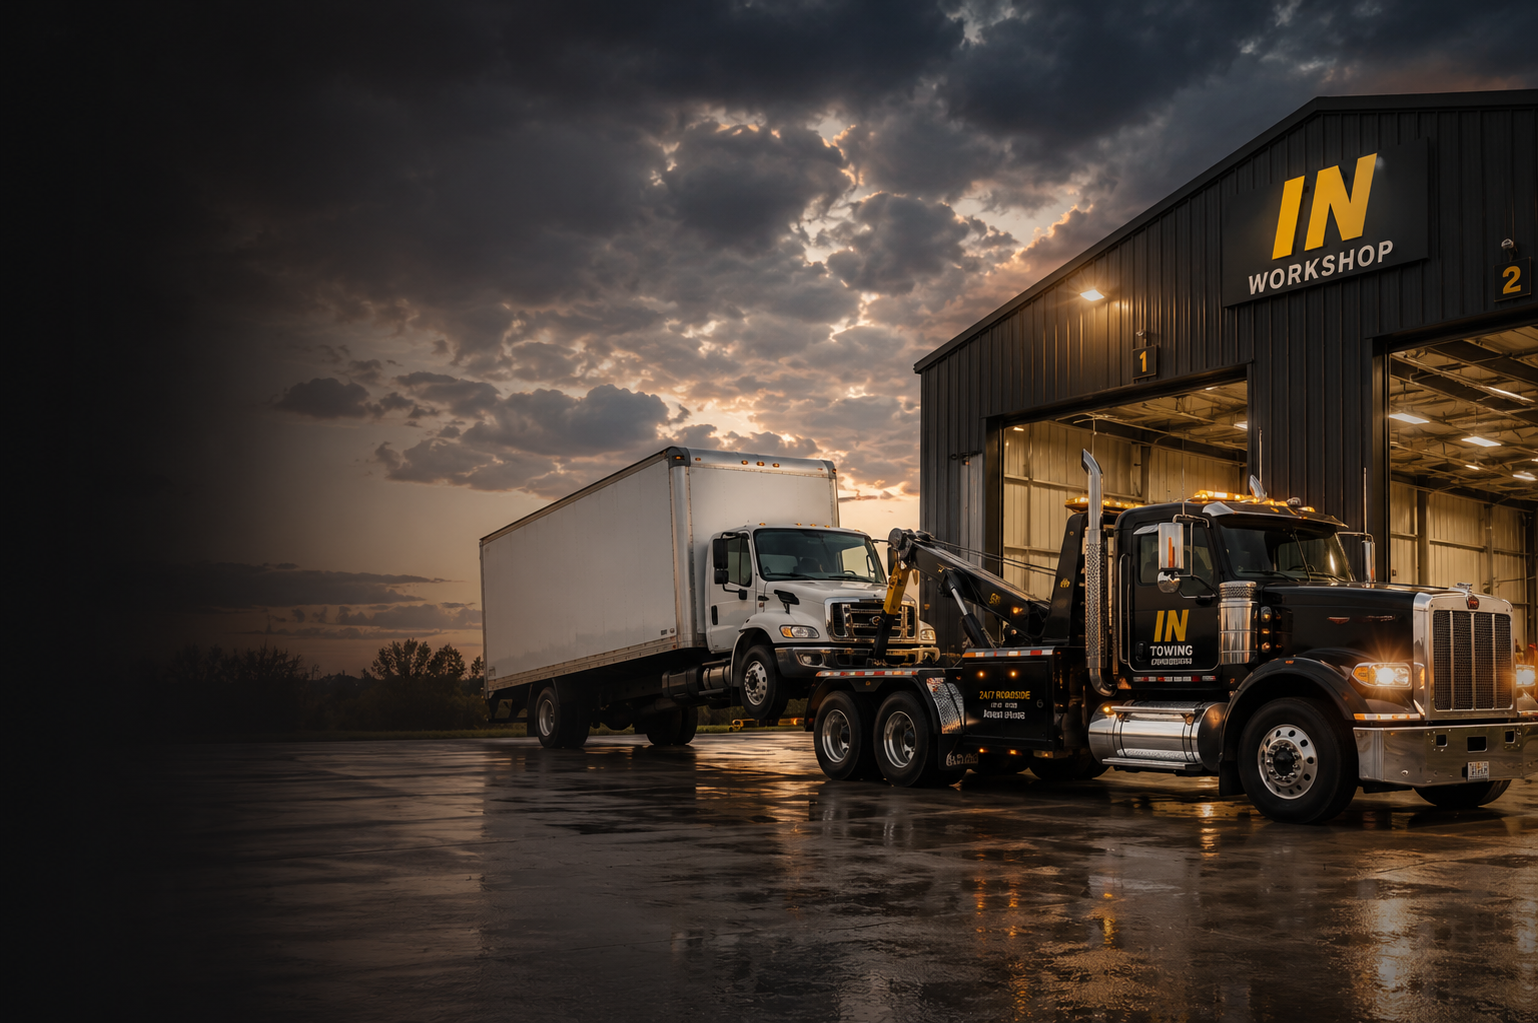
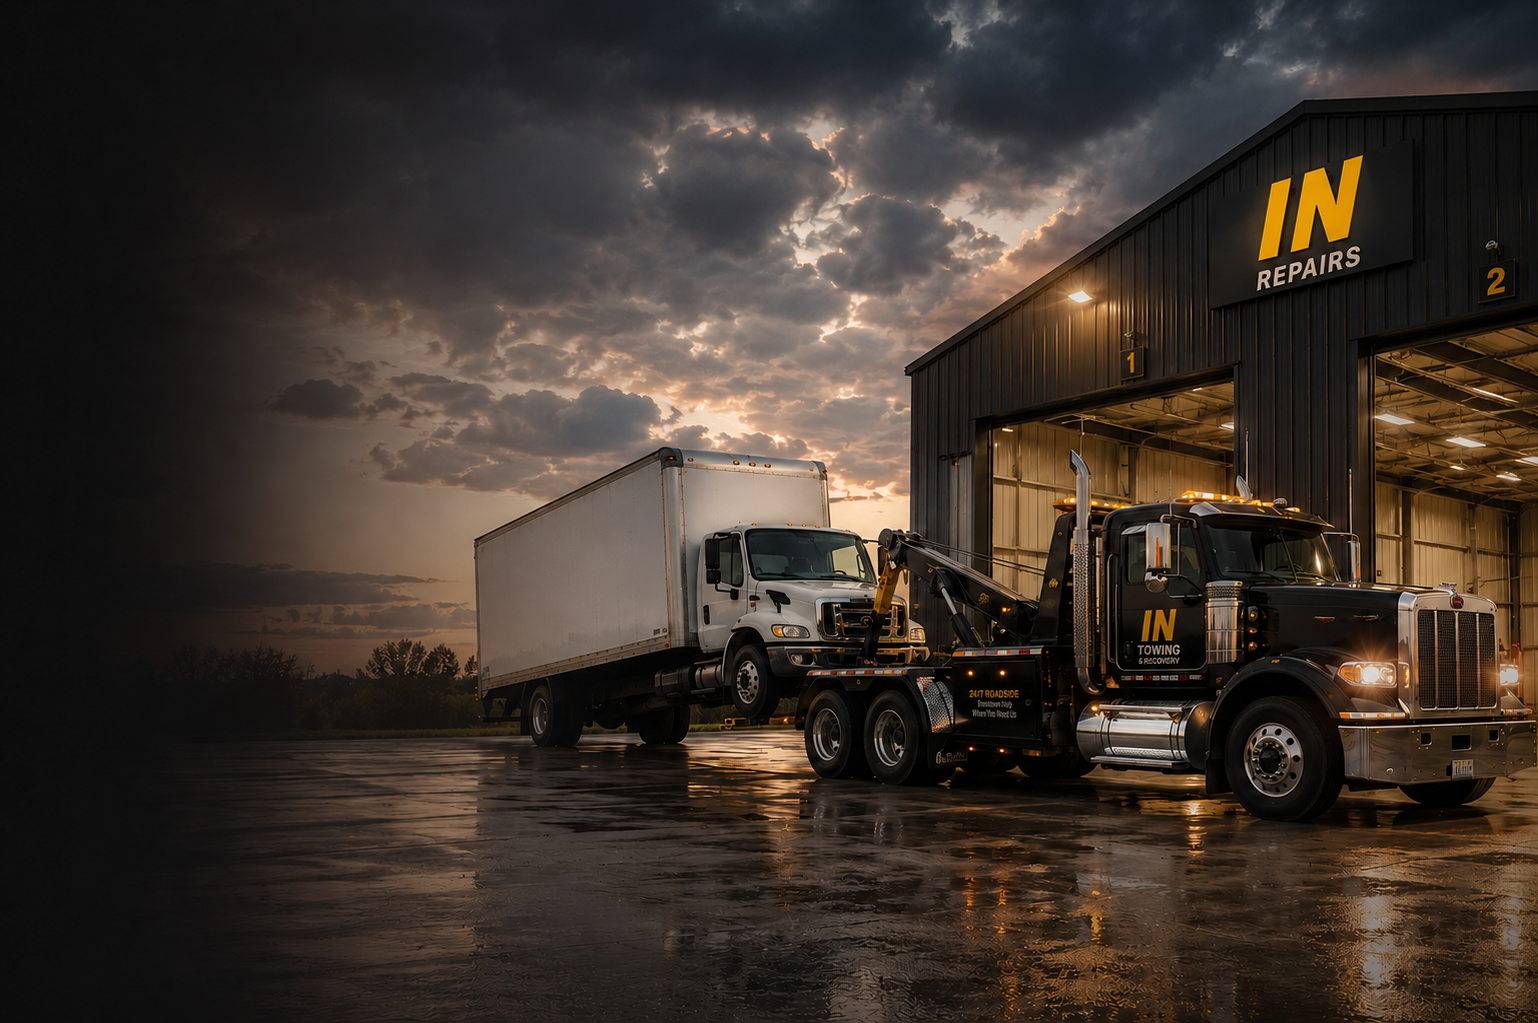
add new hero images and update UI

diff --git a/src/components/heroSection/HeroContent.tsx b/src/components/heroSection/HeroContent.tsx
@@ -11,15 +11,18 @@ type HeroContentProps = {
 
 const HeroContent = ({ isDesktop = false }: HeroContentProps) => {
   const isMobile = !isDesktop;
+  const titleLines = isDesktop
+    ? heroLines
+    : ["Towing", "Service", "Recovery", "&", "Workshop"];
 
   const eyebrowClassName = isDesktop
     ? "text-[11px] font-bold tracking-[0.3em] uppercase mb-3"
-    : "text-[12px] font-bold tracking-[0.28em] uppercase mb-2";
+    : "text-[12px] font-bold tracking-[0.28em] uppercase mb-2 max-[449px]:hidden";
 
   const titleContainerClassName = isDesktop ? "mb-4" : "mb-3 overflow-hidden";
   const titleClassName = isDesktop
     ? "block font-black uppercase leading-[0.88]"
-    : "block text-[4rem] font-black uppercase leading-[0.9]";
+    : "block text-[50px] font-black uppercase leading-[0.9] min-[450px]:text-[4rem]";
 
   const badgeSize = isDesktop ? "lg" : "sm";
   const badgeTextClassName = isDesktop
@@ -32,7 +35,7 @@ const HeroContent = ({ isDesktop = false }: HeroContentProps) => {
 
   const ctaContainerClassName = isDesktop
     ? "absolute bottom-8 left-0 right-0 z-10 px-12 flex items-center justify-between"
-    : "relative z-10 px-6 pb-5 flex flex-col gap-2";
+    : "relative z-10 px-6 pb-2 flex flex-col gap-2";
 
   const ctaButtonClassName = isDesktop
     ? "inline-flex items-center gap-3 px-7 py-3.5 font-bold uppercase tracking-wider transition-shadow"
@@ -64,7 +67,7 @@ const HeroContent = ({ isDesktop = false }: HeroContentProps) => {
         </motion.p>
 
         <div className={titleContainerClassName}>
-          {heroLines.map((line: string, i: number) => (
+          {titleLines.map((line: string, i: number) => (
             <div key={line} className="overflow-hidden">
               <motion.span
                 className={titleClassName}
@@ -117,7 +120,7 @@ const HeroContent = ({ isDesktop = false }: HeroContentProps) => {
         className={ctaContainerClassName}
       >
         <motion.a
-          href="tel:[phone redacted]"
+          href="tel:[phone redacted]"
           whileHover={{ scale: isDesktop ? 1.04 : 1.02 }}
           whileTap={{ scale: isDesktop ? 0.96 : 0.97 }}
           className={ctaButtonClassName}

diff --git a/src/models/home.ts b/src/models/home.ts
@@ -71,11 +71,6 @@ export const services: ServiceItem[] = [
     ],
   },
   {
-    icon: "towing",
-    title: "Tow Service",
-    items: ["Box trucks", "Semi trucks", "Recovery"],
-  },
-  {
     icon: "roadside",
     title: "Roadside Assistance",
     items: ["Highly experienced", "Fast response", "Friendly pricing"],

diff --git a/src/components/navBar/NavBar.tsx b/src/components/navBar/NavBar.tsx
@@ -23,7 +23,7 @@ const NavBar = () => {
         <INBadge size="sm" />
 
         <span className="font-semibold text-sm tracking-wide text-foreground/60 uppercase">
-          Workshop
+          Repairs
         </span>
       </motion.div>
 
@@ -47,7 +47,7 @@ const NavBar = () => {
         }}
       >
         <motion.a
-          href="tel:[phone redacted]"
+          href="tel:[phone redacted]"
           initial={{ opacity: 0, x: 20 }}
           animate={{ opacity: 1, x: 0 }}
           transition={{ delay: 0.3, duration: 0.5 }}

diff --git a/src/components/heroSection/HeroMobileLayout.tsx b/src/components/heroSection/HeroMobileLayout.tsx
@@ -12,7 +12,7 @@ const HeroMobileLayout = ({ heroImageMobile }: HeroMobileLayoutProps) => {
       <motion.img
         src={heroImageMobile}
         alt="IN Workshop tow truck at golden hour"
-        className="absolute inset-0 w-full h-full object-cover object-top"
+        className="absolute inset-0 h-full w-full object-cover object-[center_50%] max-[449px]:blur-[1px] min-[450px]:object-[center_62%]"
         initial={{ scale: 1.08 }}
         animate={{ scale: 1 }}
         transition={{ duration: 1.4, ease: "easeOut" }}

diff --git a/src/components/servicesSection/ServicesSection.tsx b/src/components/servicesSection/ServicesSection.tsx
@@ -34,7 +34,7 @@ const ServicesSection = () => {
           initial="hidden"
           whileInView="show"
           viewport={{ once: true, amount: 0.1 }}
-          className="grid gap-px bg-border md:grid-cols-2"
+          className="grid gap-px bg-border md:grid-cols-2 min-[920px]:grid-cols-3"
         >
           {services.map((service) => (
             <motion.div

diff --git a/src/components/siteFooter/SiteFooter.tsx b/src/components/siteFooter/SiteFooter.tsx
@@ -23,7 +23,7 @@ const SiteFooter = () => {
               className="font-bold text-sm uppercase leading-tight"
               style={{ fontFamily: "'Barlow Condensed', sans-serif" }}
             >
-              IN Workshop
+              IN Repairs
             </p>
             <p className="text-xs text-foreground/40 uppercase tracking-wider">
               Towing · Recovery · Workshop